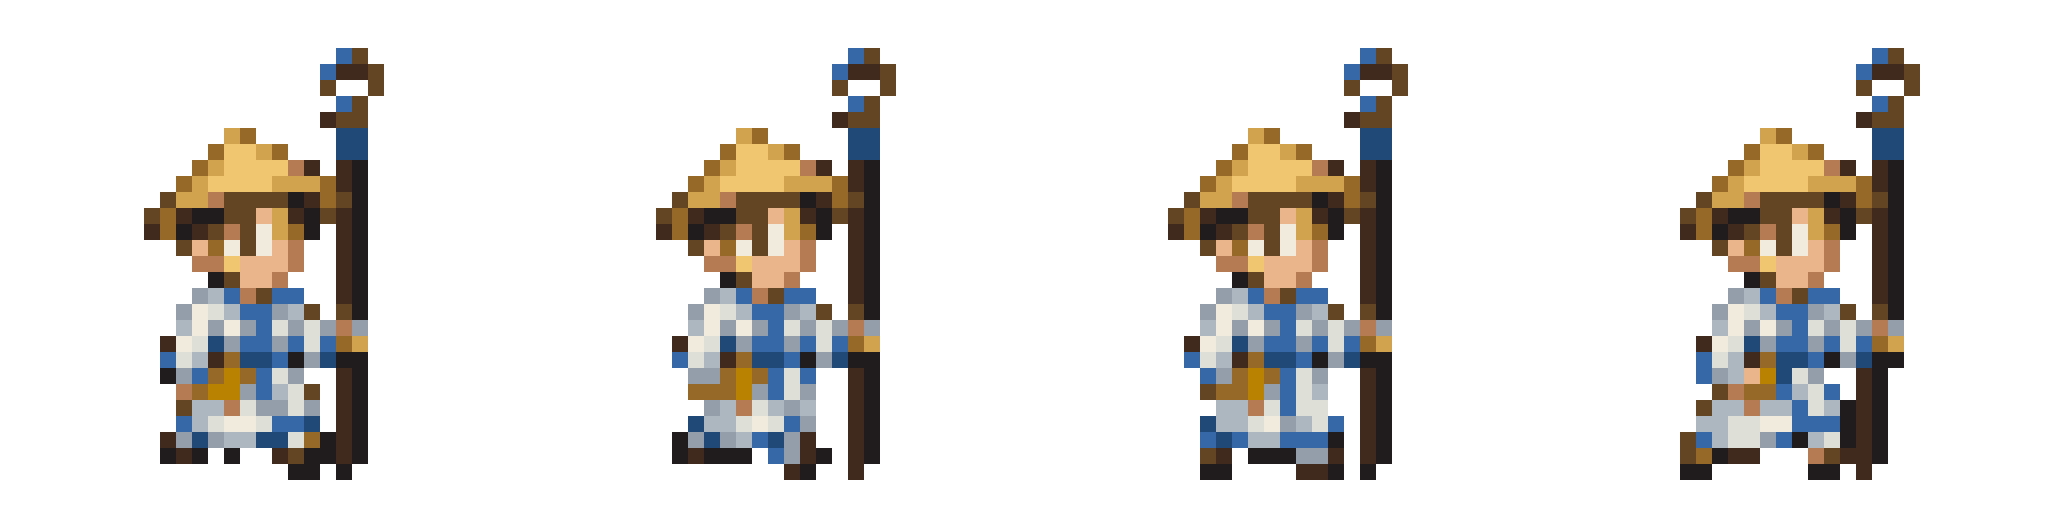
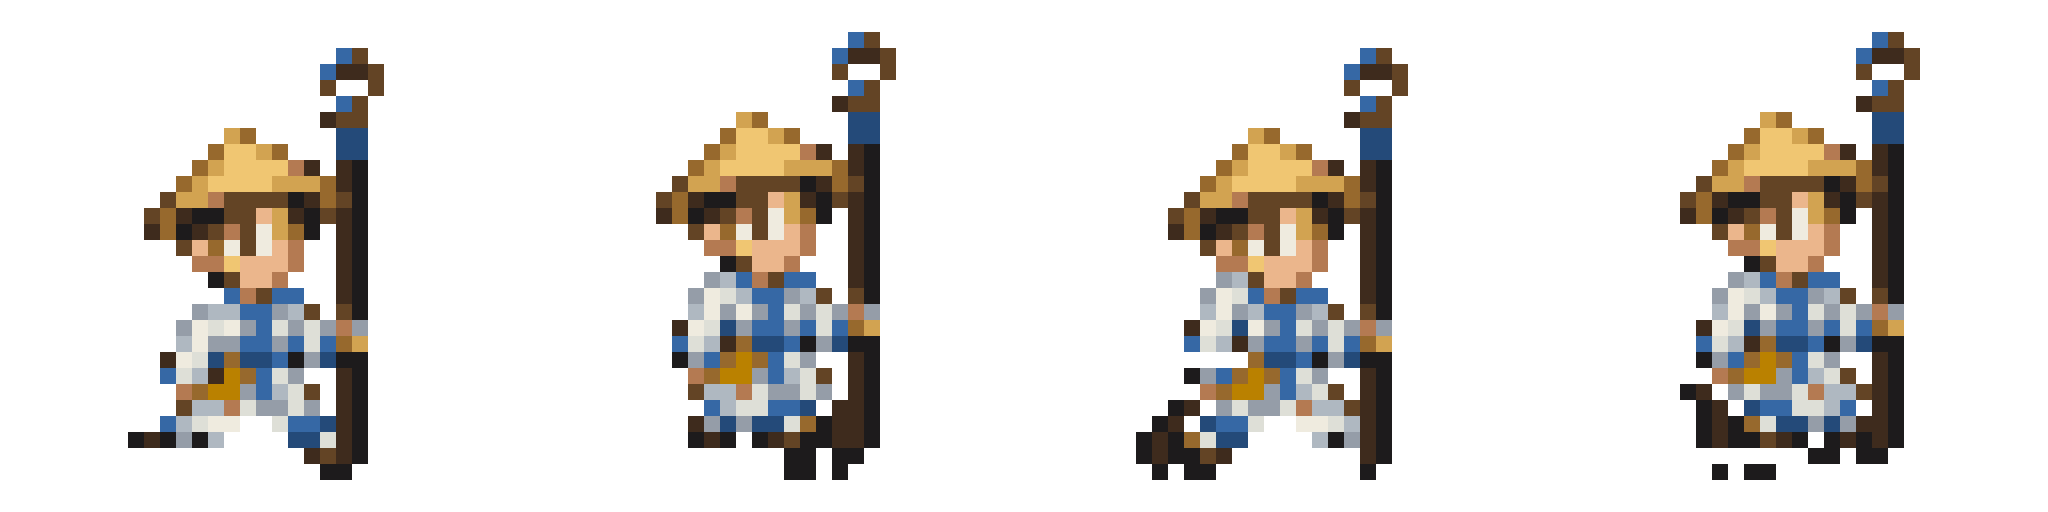
feat(assets): readable 4-frame walk cycles for all characters

diff --git a/tools/process_higgsfield_sideview_sprites.py b/tools/process_higgsfield_sideview_sprites.py
@@ -1,8 +1,9 @@
 """Post-process generated character sheets into runtime side-view sprites.
 
-This script never draws character pixels. It extracts the five generated figures,
+This script never invents character pixels. It extracts the five generated figures,
 removes the chroma background, normalizes them onto a 32x32 logical canvas, and
-exports nearest-neighbour 16x runtime PNGs.
+repositions approved logical-pixel clusters for the walk cycle before exporting
+nearest-neighbour 16x runtime PNGs.
 """
 
 from __future__ import annotations
@@ -22,6 +23,27 @@ EXPORT_SCALE = 16
 GROUND_Y = 29
 TARGET_HEIGHT = 27
 STABLE_UPPER_ROWS = 23
+
+WALK_POSE_CONFIG: dict[str, dict[str, int | tuple[int, int, int, int]]] = {
+    "Taoist": {
+        "center_x": 15,
+        "leg_left": 7,
+        "leg_right": 21,
+        "arm_box": (9, 18, 14, 23),
+    },
+    "Warrior": {
+        "center_x": 15,
+        "leg_left": 8,
+        "leg_right": 23,
+        "arm_box": (10, 16, 14, 24),
+    },
+    "Archer": {
+        "center_x": 15,
+        "leg_left": 7,
+        "leg_right": 22,
+        "arm_box": (9, 15, 13, 23),
+    },
+}
 
 CHARACTER_PALETTES: dict[str, tuple[tuple[int, int, int], ...]] = {
     "Taoist": (
@@ -213,6 +235,102 @@ def stabilize_walk_upper_body(frames: list[Image.Image]) -> list[Image.Image]:
     return stabilized
 
 
+def _move_arm(frame: Image.Image, box: tuple[int, int, int, int], dy: int) -> Image.Image:
+    """Move the free-arm cluster one logical pixel without changing its pixels."""
+    moved = np.asarray(frame).copy()
+    x0, y0, x1, y1 = box
+    cluster = moved[y0:y1, x0:x1, :].copy()
+    moved[y0:y1, x0:x1, :] = 0
+    destination_y = y0 + dy
+    moved[destination_y : destination_y + cluster.shape[0], x0:x1, :] = cluster
+    return Image.fromarray(moved, "RGBA")
+
+
+def _leg_pixels(
+    base: np.ndarray,
+    center_x: int,
+    contact: bool,
+    mirror: bool,
+) -> list[tuple[int, int, np.ndarray]]:
+    """Shear existing leg pixels into contact or passing poses around one hip."""
+    pixels: list[tuple[int, int, np.ndarray]] = []
+    for y in range(25, LOGICAL_SIZE):
+        for x in range(LOGICAL_SIZE):
+            color = base[y, x]
+            if color[3] == 0:
+                continue
+            side = -1 if x <= center_x else 1
+            if contact:
+                offset = min(2, max(0, y - 25))
+                destination_x = x + side * offset
+                # The rear foot rolls onto its toe during contact; after the
+                # mirrored phase, the opposite foot receives the same lift.
+                destination_y = y - 1 if side == -1 and y >= 28 else y
+            else:
+                offset = 1 if y >= 26 else 0
+                destination_x = x - side * offset
+                # Passing frames bob the body upward. One foot remains planted
+                # on row 29 while the opposite foot lifts with the body.
+                planted_side = 1
+                destination_y = y if side == planted_side and y == GROUND_Y else y - 1
+                if side == planted_side and y == GROUND_Y:
+                    pixels.append((destination_x, y - 1, color.copy()))
+            if mirror:
+                destination_x = center_x * 2 + 1 - destination_x
+            if 0 <= destination_x < LOGICAL_SIZE and 0 <= destination_y < LOGICAL_SIZE:
+                pixels.append((destination_x, destination_y, color.copy()))
+    return pixels
+
+
+def strengthen_walk_cycle(frames: list[Image.Image], character: str) -> list[Image.Image]:
+    """Build a readable contact/passing cycle from one approved walk-frame base."""
+    if len(frames) != 5:
+        raise ValueError("expected idle plus four walk frames")
+    config = WALK_POSE_CONFIG[character]
+    center_x = int(config["center_x"])
+    leg_left = int(config["leg_left"])
+    leg_right = int(config["leg_right"])
+    arm_box = config["arm_box"]
+    assert isinstance(arm_box, tuple)
+
+    base_image = frames[1]
+    base = np.asarray(base_image).copy()
+    strengthened: list[Image.Image] = [frames[0]]
+
+    # Contact A and B keep the head/face fixed and use mirrored, widely
+    # scissored legs. The free arm counters the leading leg by one pixel.
+    for mirror, arm_dy in ((False, 1), (True, -1)):
+        pose = base.copy()
+        pose[25:, leg_left:leg_right, :] = 0
+        for x, y, color in _leg_pixels(base, center_x, True, mirror):
+            if leg_left <= x < leg_right:
+                pose[y, x] = color
+        strengthened.append(
+            _move_arm(Image.fromarray(pose, "RGBA"), arm_box, arm_dy)
+        )
+
+    # Passing A and B shift the body up exactly one logical pixel, gather the
+    # legs beneath the hip, and alternate which foot remains planted.
+    passing_poses: list[Image.Image] = []
+    for mirror in (False, True):
+        pose = np.zeros_like(base)
+        pose[:-1, :, :] = base[1:, :, :]
+        pose[24:, leg_left:leg_right, :] = 0
+        for x, y, color in _leg_pixels(base, center_x, False, mirror):
+            if leg_left <= x < leg_right:
+                pose[y, x] = color
+        passing_poses.append(Image.fromarray(pose, "RGBA"))
+
+    # Runtime order is Contact A, Passing A, Contact B, Passing B.
+    return [
+        strengthened[0],
+        strengthened[1],
+        passing_poses[0],
+        strengthened[2],
+        passing_poses[1],
+    ]
+
+
 def export_character(character_root: Path) -> dict[str, object]:
     source_path = next(
         (
@@ -231,6 +349,7 @@ def export_character(character_root: Path) -> dict[str, object]:
     source = Image.open(source_path).convert("RGBA")
     frames = resize_and_align(extract_figures(source))
     frames = apply_shared_palette(stabilize_walk_upper_body(frames), character_root.name)
+    frames = strengthen_walk_cycle(frames, character_root.name)
     exported = [
         frame.resize(
             (LOGICAL_SIZE * EXPORT_SCALE, LOGICAL_SIZE * EXPORT_SCALE),
@@ -293,6 +412,64 @@ def verify_exports(asset_root: Path) -> None:
             ).resize(image.size, Image.Resampling.NEAREST)
             if image.tobytes() != logical.tobytes():
                 raise ValueError(f"off-grid pixels in {character}")
+
+        logical_walk = walk.resize(
+            (LOGICAL_SIZE * 4, LOGICAL_SIZE), Image.Resampling.NEAREST
+        )
+        walk_frames = [
+            np.asarray(
+                logical_walk.crop(
+                    (index * LOGICAL_SIZE, 0, (index + 1) * LOGICAL_SIZE, LOGICAL_SIZE)
+                )
+            )
+            for index in range(4)
+        ]
+        if len({frame.tobytes() for frame in walk_frames}) != 4:
+            raise ValueError(f"duplicate walk phases for {character}")
+
+        tops = []
+        for frame in walk_frames:
+            rows, _ = np.nonzero(frame[:, :, 3])
+            tops.append(int(rows.min()))
+            if int(rows.max()) != GROUND_Y:
+                raise ValueError(f"walk frame missed ground row for {character}")
+        if tops[1] != tops[0] - 1 or tops[3] != tops[2] - 1:
+            raise ValueError(f"passing-frame bob is not exactly one pixel for {character}")
+
+        # Contact head/face art is identical; passing frames contain the exact
+        # same pixels translated upward by the one-pixel body bob.
+        head_box = (slice(2, 15), slice(8, 21))
+        if not np.array_equal(walk_frames[0][head_box], walk_frames[2][head_box]):
+            raise ValueError(f"contact head drift for {character}")
+        if not np.array_equal(
+            walk_frames[0][3:15, 8:21], walk_frames[1][2:14, 8:21]
+        ) or not np.array_equal(
+            walk_frames[2][3:15, 8:21], walk_frames[3][2:14, 8:21]
+        ):
+            raise ValueError(f"passing head drift for {character}")
+
+        config = WALK_POSE_CONFIG[character]
+        center_x = int(config["center_x"])
+        ground_centers = []
+        for frame in walk_frames:
+            ground_columns = np.nonzero(frame[GROUND_Y, :, 3])[0]
+            ground_centers.append(float(ground_columns.mean()))
+        if not (
+            ground_centers[0] > center_x
+            and ground_centers[1] > center_x
+            and ground_centers[2] < center_x
+            and ground_centers[3] < center_x
+        ):
+            raise ValueError(f"feet do not alternate sides for {character}")
+
+        leg_left = int(config["leg_left"])
+        leg_right = int(config["leg_right"])
+        strides = []
+        for frame in walk_frames:
+            columns = np.nonzero(frame[27, leg_left:leg_right, 3])[0]
+            strides.append(int(columns.max() - columns.min()))
+        if not (strides[0] > strides[1] and strides[2] > strides[3]):
+            raise ValueError(f"contact silhouette is not wider than passing for {character}")
 
 
 def main() -> None:

diff --git a/asset/character/SIDEVIEW_SPRITES.md b/asset/character/SIDEVIEW_SPRITES.md
@@ -99,7 +99,12 @@ Slice `walk.png` as **4 columns × 1 row**, using 512 × 512 regions:
 3. Contact B
 4. Passing B
 
-Loop frames `0 → 1 → 2 → 3` at approximately 8–10 fps. The walk frames share one pixel-identical upper-body layer through logical row 22; only the generated lower garment and legs retain the alternating poses.
+Loop frames `0 → 1 → 2 → 3` at approximately 8–10 fps. Contact A and
+Contact B keep the head and face fixed while the legs form mirrored, two-pixel
+scissors: the leading heel reaches logical ground row 29 and the rear foot rolls
+up onto its toe. Passing A and Passing B gather the legs beneath the hip, keep
+the planted foot on row 29, and raise the body by exactly one logical pixel. The
+free arm counter-swings by one logical pixel between the two contact poses.
 
 ## Higgsfield generation
 
@@ -169,9 +174,10 @@ The processor performs generated-image transformations only; it does not draw ch
 2. Finds the five largest connected foreground components and orders them left-to-right.
 3. Reduces all figures with one per-character scale onto a 32 × 32 logical grid.
 4. Aligns each frame from its hat/head anchor and fixes the feet to logical ground row 29.
-5. Reuses the first generated walk frame's upper layer through row 22 for the remaining walk frames, removing face, costume, and held-item flicker.
-6. Quantizes all five frames together to a per-character authored palette of up to **16 opaque colors** with no dithering.
-7. Exports at 16× using nearest-neighbour sampling.
+5. Reuses the first generated walk frame's upper layer through row 22, removing face and costume flicker.
+6. Repositions only approved logical-pixel clusters from that shared base to create mirrored contact legs, gathered passing legs, the one-pixel passing bob, and the one-pixel free-arm counter-swing.
+7. Quantizes all five frames together to a per-character authored palette of up to **16 opaque colors** with no dithering.
+8. Exports at 16× using nearest-neighbour sampling.
 
 ## Verification
 
@@ -183,9 +189,20 @@ All raw sheets, idle sprites, and four-frame strips were visually inspected agai
 - equal 512-pixel walk cells and one common canvas height;
 - at most 17 RGBA entries per character including transparency (up to 16 opaque authored palette entries);
 - logical alpha bounds ending on ground row 29;
-- **0.0 logical-pixel upper-body center spread** across every walk loop;
-- pixel-identical walk upper bodies and distinct lower-body frames;
+- stable, pixel-identical head and face art across the walk loop (the passing
+  frames translate that shared art upward by exactly one logical pixel);
+- mirrored contact silhouettes with alternating grounded heels and raised rear
+  toes, plus gathered passing silhouettes with alternating lifted feet;
+- a one-logical-pixel body bob on both passing frames and a one-logical-pixel
+  opposing free-arm swing on the contact frames;
 - no chroma remnants, dividers, labels, or watermark;
 - the required hat, costume, held weapon, and palette identity remain readable at the actual 32 × 32 logical resolution.
+
+The final three loops were assembled into a nearest-neighbour preview GIF at
+**8 fps** (125 ms per frame) on a dark background and watched through repeated
+cycles. Taoist, Warrior, and Archer each read as walking rather than gliding:
+the contact stride alternates sides, the passing pose compresses beneath the
+torso, the body rises on both passing frames, and the planted foot returns to
+the same ground row without sliding.
 
 Keep texture filtering and mipmaps disabled in Godot so the logical pixels remain crisp.
